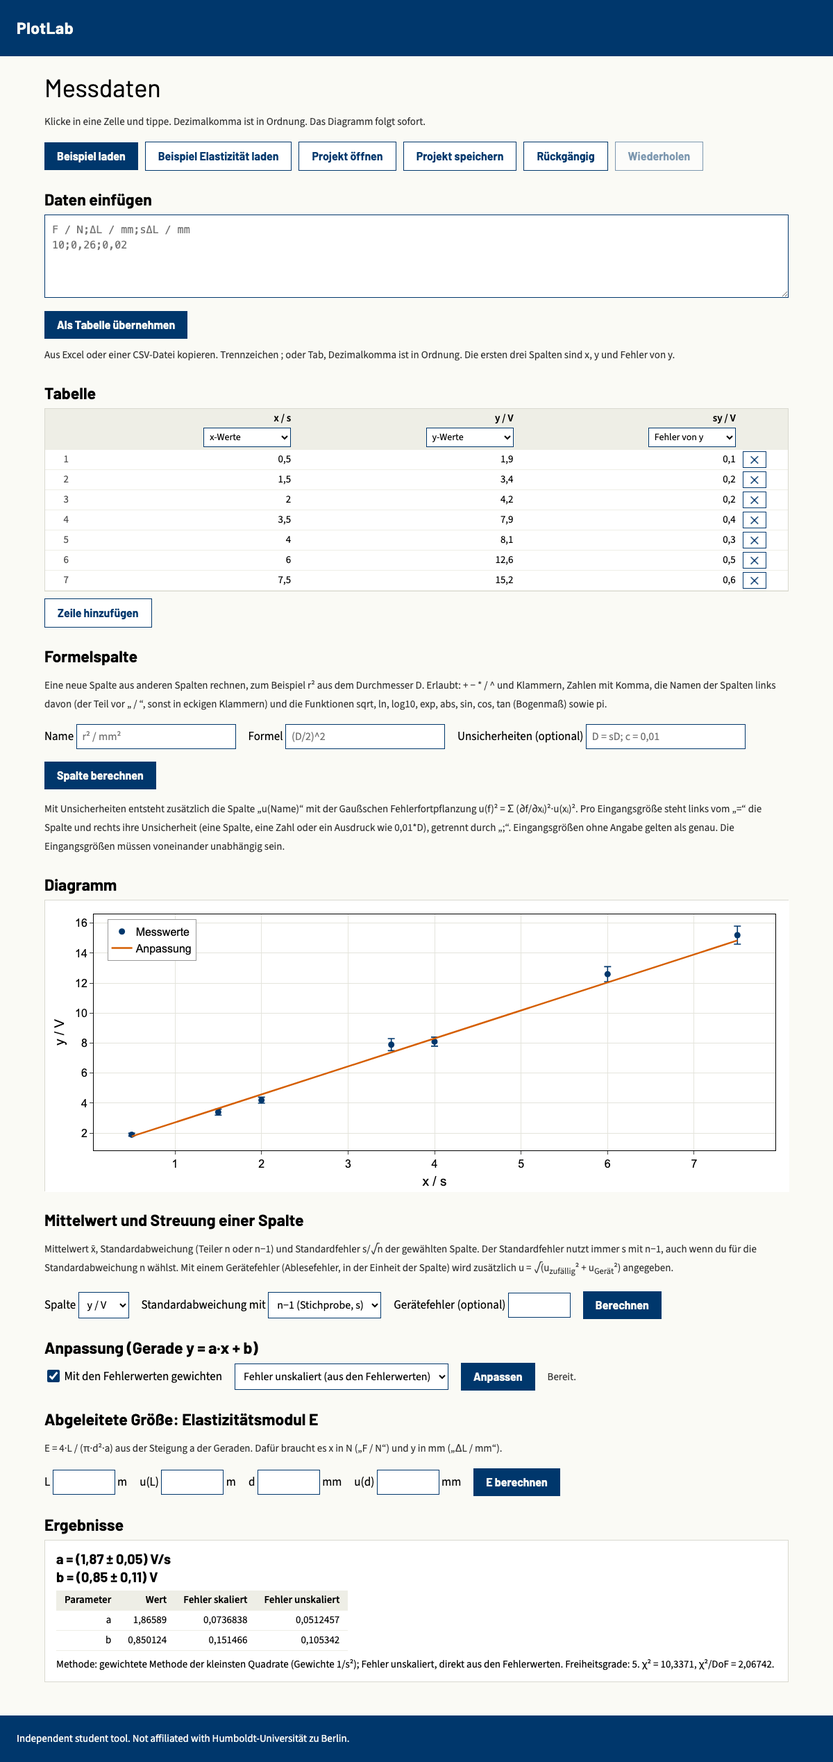
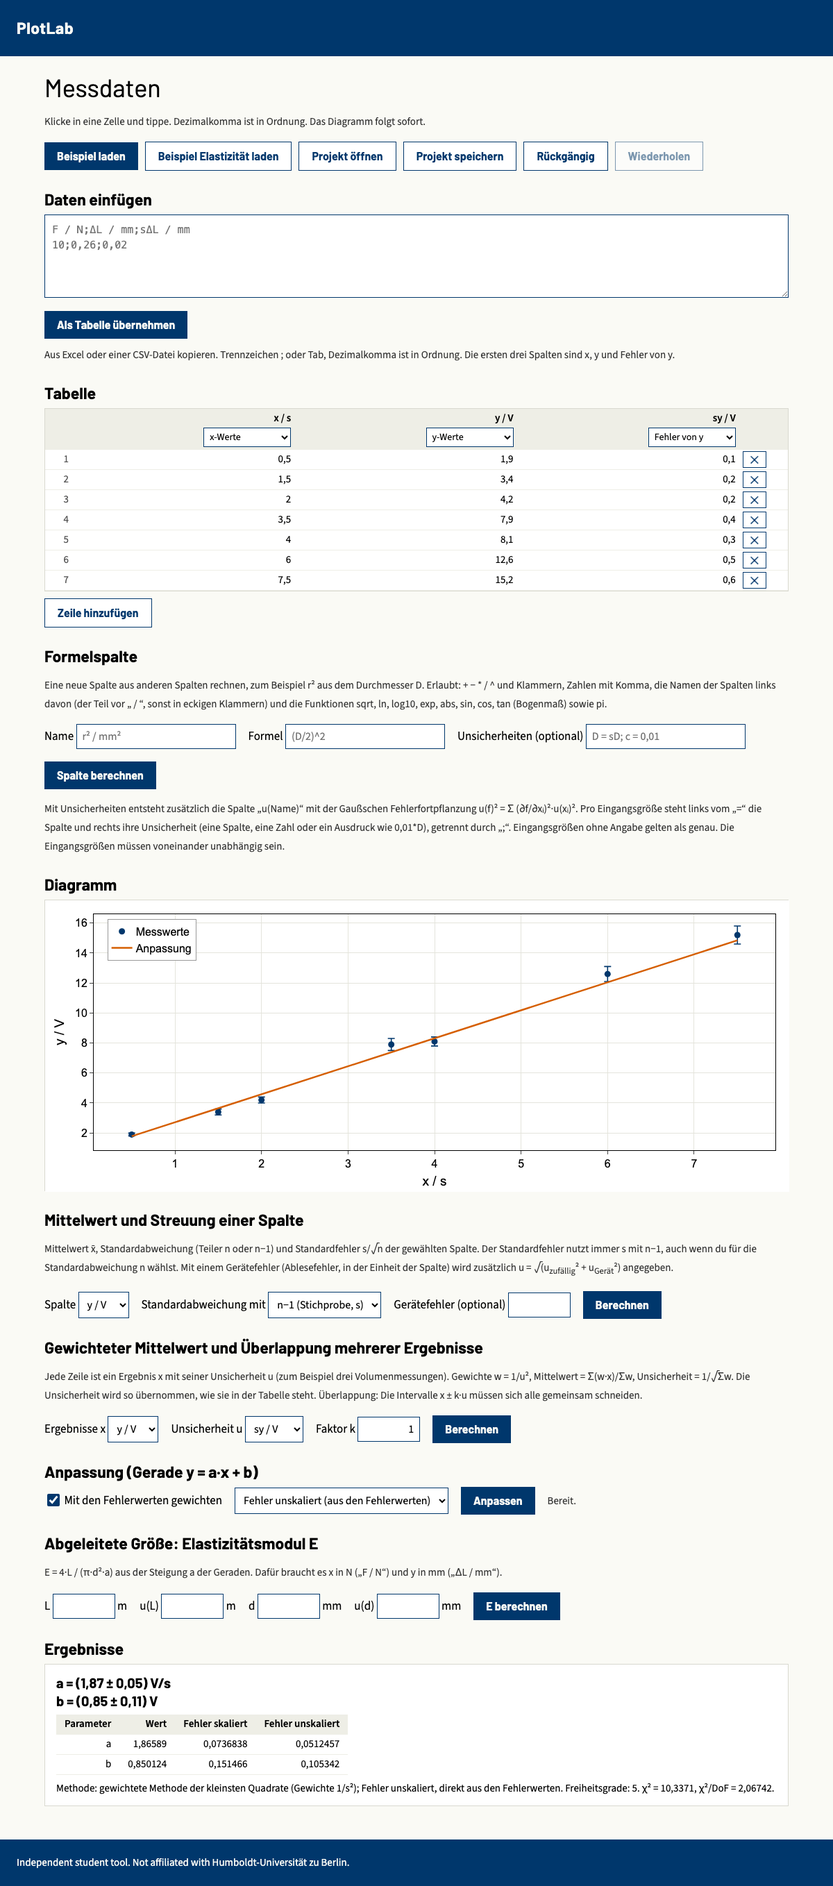
Phase 2 step 4: weighted mean with uncertainty and overlap check

diff --git a/app/index.html b/app/index.html
@@ -107,6 +107,15 @@
     <button class="btn" id="s_go" disabled>Berechnen</button>
   </div>
   <div id="statsmsg" class="msg" role="alert" hidden></div>
+  <h2>Gewichteter Mittelwert und Überlappung mehrerer Ergebnisse</h2>
+  <p class="hint">Jede Zeile ist ein Ergebnis x mit seiner Unsicherheit u (zum Beispiel drei Volumenmessungen). Gewichte w = 1/u², Mittelwert = Σ(w·x)/Σw, Unsicherheit = 1/√Σw. Die Unsicherheit wird so übernommen, wie sie in der Tabelle steht. Überlappung: Die Intervalle x ± k·u müssen sich alle gemeinsam schneiden.</p>
+  <div class="fitbar" id="wmean">
+    <label>Ergebnisse x <select id="w_val" aria-label="Spalte mit den Ergebnissen"></select></label>
+    <label>Unsicherheit u <select id="w_unc" aria-label="Spalte mit den Unsicherheiten"></select></label>
+    <label>Faktor k <input class="num" id="w_k" aria-label="Faktor k für die Überlappung" inputmode="decimal"></label>
+    <button class="btn" id="w_go" disabled>Berechnen</button>
+  </div>
+  <div id="wmsg" class="msg" role="alert" hidden></div>
   <h2>Anpassung (Gerade y = a·x + b)</h2>
   <div class="fitbar">
     <label id="wlabel"><input type="checkbox" id="weighted"> Mit den Fehlerwerten gewichten</label>
@@ -197,7 +206,7 @@ function restoreAutosave() {
 function setProject(p) {
   proj = p; undo = []; redo = []; editKey = null; updateHist();
   $("msg").hidden = true;
-  $("saveproj").disabled = $("addrow").disabled = $("f_add").disabled = $("s_go").disabled = false; if (worker?.ready && !pending) $("fit").disabled = false;
+  $("saveproj").disabled = $("addrow").disabled = $("f_add").disabled = $("s_go").disabled = $("w_go").disabled = false; if (worker?.ready && !pending) $("fit").disabled = false;
   render();
 }
 function showMsg(t) { $("msg").textContent = t; $("msg").hidden = false; }
@@ -254,6 +263,11 @@ function statsDetail(r) {
   return `<div class="detail" data-how>Spalte „${esc(i.col)}“, n = ${n} Werte. Standardabweichung mit Teiler ${i.ddof === 0 ? "n" : "n−1"}. Mittelwert ± Standardfehler s/√n (s mit n−1).` +
     (i.instr != null ? ` Mit Gerätefehler ${fmt.format(Number(i.instr))}: u = √(u<sub>zufällig</sub>² + u<sub>Gerät</sub>²).` : "") + "</div>";
 }
+function wmeanDetail(r) {
+  const i = r.inputs || {}, k = fmt.format(Number(i.k));
+  return `<div class="detail" data-how>Ergebnisse „${esc(i.val)}“ mit Unsicherheiten „${esc(i.unc)}“, n = ${fmt.format(Number(r.n))} Zeilen. Gewichte w = 1/u², Mittelwert Σ(w·x)/Σw, Unsicherheit 1/√Σw.</div>` +
+    `<div class="detail" data-verdict>Überlappung der Intervalle x ± ${k}·u: ${esc(r.verdict)}</div>`;
+}
 function renderResults() {
   if (!proj.results.length) { $("results").innerHTML = '<div class="empty">Noch keine Ergebnisse.</div>'; return; }
   $("results").innerHTML = proj.results.map(r => {
@@ -262,7 +276,7 @@ function renderResults() {
       const u = uOf(q), t = huRound(q.value, u);
       return `<div class="res">${esc(q.name)} = ${t ? `(${t[0]} ± ${t[1]})` : q.plain ? fmtPlain.format(q.value) : fmt.format(q.value)}${q.unit ? " " + esc(q.unit) : ""}</div>`;
     }).join("");
-    return `<div class="result${stale ? " stale" : ""}">${stale ? `<div class="msg stalemsg">Die Daten wurden geändert. Dieses Ergebnis ist veraltet. Bitte neu ${r.kind === "stats" ? "berechnen" : "anpassen"}.</div>` : ""}${lines}${r.kind === "fit" && r.dof ? fitDetail(r) : ""}${r.kind === "derived" ? derivedDetail(r) : ""}${r.kind === "stats" ? statsDetail(r) : ""}</div>`;
+    return `<div class="result${stale ? " stale" : ""}">${stale ? `<div class="msg stalemsg">Die Daten wurden geändert. Dieses Ergebnis ist veraltet. Bitte neu ${r.kind === "stats" || r.kind === "wmean" ? "berechnen" : "anpassen"}.</div>` : ""}${lines}${r.kind === "fit" && r.dof ? fitDetail(r) : ""}${r.kind === "derived" ? derivedDetail(r) : ""}${r.kind === "stats" ? statsDetail(r) : ""}${r.kind === "wmean" ? wmeanDetail(r) : ""}</div>`;
   }).join("");
 }
 // Weighting needs an error column; errors method only matters for a weighted fit.
@@ -272,10 +286,13 @@ function syncControls() {
   $("wlabel").classList.toggle("off", !has);
   $("wlabel").title = has ? "" : "Dafür braucht es eine Spalte mit der Rolle „Fehler von y“.";
   $("errm").value = proj.settings.errMethod || "scaled"; $("errm").disabled = !w;
-  $("fitmsg").hidden = true; $("derivemsg").hidden = true; $("statsmsg").hidden = true;
+  $("fitmsg").hidden = true; $("derivemsg").hidden = true; $("statsmsg").hidden = true; $("wmsg").hidden = true;
   const st = statsSettings(proj);
   $("s_col").replaceChildren(...proj.columns.map(c => Object.assign(document.createElement("option"), { value: c.name, textContent: c.name })));
   $("s_col").value = st.col; $("s_ddof").value = st.ddof; $("s_instr").value = st.instr == null ? "" : fmt.format(st.instr); $("s_instr").classList.remove("bad");
+  const wm = wmeanSettings(proj), opts = (none) => [...(none ? [Object.assign(document.createElement("option"), { value: "", textContent: "(keine)" })] : []), ...proj.columns.map(c => Object.assign(document.createElement("option"), { value: c.name, textContent: c.name }))];
+  $("w_val").replaceChildren(...opts(false)); $("w_unc").replaceChildren(...opts(true));
+  $("w_val").value = wm.val; $("w_unc").value = wm.unc ?? ""; $("w_k").value = fmt.format(wm.k); $("w_k").classList.remove("bad");
   for (const k of ["L", "uL", "d", "ud"]) { const v = (proj.settings.young || {})[k]; $("y_" + k).value = v == null ? "" : fmt.format(v); $("y_" + k).classList.remove("bad"); }
 }
 // Formula columns are recomputed from the data on every change; rows that cannot be calculated are named in the message.
@@ -457,6 +474,34 @@ $("s_go").onclick = () => {
     params: [p("Mittelwert x̄", d.mean, d.sem), p(st.ddof === 0 ? "Standardabweichung σ (Teiler n)" : "Standardabweichung s (Teiler n−1)", d.s), p("Standardfehler des Mittelwerts s/√n", d.sem),
       ...(d.uTotal === null ? [] : [p("Mittelwert x̄ mit Gerätefehler", d.mean, d.uTotal)])],
   }));
+};
+// Weighted mean: the three settings live in the project (undo works); typing k is one undo step.
+const setWmean = patch => setSetting("wmean", { ...wmeanSettings(proj), ...patch });
+$("w_val").onchange = e => setWmean({ val: e.target.value });
+$("w_unc").onchange = e => setWmean({ unc: e.target.value || null });
+$("w_k").addEventListener("input", e => {
+  const v = parseCell(e.target.value);
+  e.target.classList.toggle("bad", v === undefined || v === null || !(v > 0));
+  if (!(v > 0)) return;
+  if (editKey !== "wmean.k") { pushUndo(); editKey = "wmean.k"; }
+  proj.settings.wmean = { ...wmeanSettings(proj), k: v };
+  renderResults(); autosave();
+});
+$("w_k").addEventListener("focusout", () => { editKey = null; });
+function wmeanFailed(why) { $("wmsg").textContent = why; $("wmsg").hidden = false; }
+$("w_go").onclick = () => {
+  const st = wmeanSettings(proj), cv = proj.columns.find(c => c.name === st.val), cu = proj.columns.find(c => c.name === st.unc);
+  if ($("w_k").classList.contains("bad")) return wmeanFailed("Der Faktor k muss eine Zahl größer als 0 sein.");
+  if (!cu) return wmeanFailed("Bitte eine Spalte mit den Unsicherheiten wählen.");
+  if (cu === cv) return wmeanFailed("Ergebnisse und Unsicherheiten müssen verschiedene Spalten sein.");
+  const rows = cv.values.map((v, i) => i).filter(i => cv.values[i] !== null && cu.values[i] !== null);
+  const zero = rows.find(i => !(cu.values[i] > 0));
+  if (zero !== undefined) return wmeanFailed(`Alle Unsicherheiten müssen größer als 0 sein (Zeile ${zero + 1}). Das Gewicht 1/u² ist sonst nicht definiert.`);
+  if (rows.length < 2) return wmeanFailed(`Es gibt ${rows.length} Zeile${rows.length === 1 ? "" : "n"} mit Ergebnis und Unsicherheit. Ein gewichteter Mittelwert braucht mindestens zwei.`);
+  const unit = (cv.name.split("/")[1] || "").trim(), d = weightedMean(rows.map(i => cv.values[i]), rows.map(i => cu.values[i]), st.k), nr = j => rows[j - 1] + 1;
+  const verdict = d.overlap ? "Alle Intervalle haben einen gemeinsamen Bereich. Die Ergebnisse stimmen im Rahmen ihrer Unsicherheiten überein."
+    : "Die Ergebnisse stimmen nicht überein: " + d.bad.map(b => `Zeile ${nr(b.i)} und Zeile ${nr(b.j)} (Lücke ${fmtPlain.format(b.gap)}${unit ? " " + unit : ""})`).join("; ") + ". Der gewichtete Mittelwert ist dann mit Vorsicht zu lesen.";
+  change(() => addResult(proj, { kind: "wmean", inputs: st, n: d.n, verdict, params: [{ name: "Gewichteter Mittelwert", unit, value: d.mean, u: d.u }] }));
 };
 $("weighted").onchange = e => setSetting("weighted", e.target.checked);
 $("errm").onchange = e => setSetting("errMethod", e.target.value);

diff --git a/app/project.js b/app/project.js
@@ -23,14 +23,22 @@ function statsSettings(p) {
 }
 // The result depends on the current settings and on that column's values.
 const statsKey = p => { const st = statsSettings(p); return fnv(JSON.stringify([st, p.columns.find(c => c.name === st.col).values])); };
+// Weighted mean of results (value column, uncertainty column) with the overlap factor k: defaults are the y and y-error columns.
+function wmeanSettings(p) {
+  const st = p.settings.wmean || {}, has = n => p.columns.some(c => c.name === n);
+  const val = has(st.val) ? st.val : (p.columns.find(c => c.role === "y") || p.columns[0]).name;
+  const unc = has(st.unc) ? st.unc : st.unc === null ? null : (p.columns.find(c => c.role === "yerr") || {}).name ?? null; // null = "(keine)" chosen on purpose
+  return { val, unc, k: st.k > 0 ? st.k : 1 };
+}
+const wmeanKey = p => { const st = wmeanSettings(p), by = n => (p.columns.find(c => c.name === n) || {}).values; return fnv(JSON.stringify([st, by(st.val), by(st.unc)])); };
 
 function addResult(p, result) {
   p.results = p.results.filter(r => r.kind !== result.kind);
-  p.results.push({ ...result, settings: { ...p.settings }, computedFrom: result.kind === "stats" ? statsKey(p) : fingerprint(p) });
+  p.results.push({ ...result, settings: { ...p.settings }, computedFrom: result.kind === "stats" ? statsKey(p) : result.kind === "wmean" ? wmeanKey(p) : fingerprint(p) });
 }
 
 // Stale when the data changed, weighting was switched after the fit, or (derived results) the extra inputs changed.
-const isStale = (p, r) => r.kind === "stats" ? r.computedFrom !== statsKey(p) : r.computedFrom !== fingerprint(p) || (r.settings || {}).weighted !== p.settings.weighted ||
+const isStale = (p, r) => r.kind === "stats" ? r.computedFrom !== statsKey(p) : r.kind === "wmean" ? r.computedFrom !== wmeanKey(p) : r.computedFrom !== fingerprint(p) || (r.settings || {}).weighted !== p.settings.weighted ||
   (r.kind === "derived" && JSON.stringify((r.settings || {}).young) !== JSON.stringify(p.settings.young));
 
 const save = p => JSON.stringify(p, null, 1);
@@ -48,4 +56,4 @@ function open(text) {
   return ok ? { project: p } : { error: "Das Projekt ist beschädigt: Spalten oder Werte fehlen oder sind keine Zahlen." };
 }
 
-if (typeof module !== "undefined") module.exports = { statsSettings, ROLES, newProject, fingerprint, addResult, isStale, save, open };
+if (typeof module !== "undefined") module.exports = { statsSettings, wmeanSettings, ROLES, newProject, fingerprint, addResult, isStale, save, open };

diff --git a/app/stats.js b/app/stats.js
@@ -7,4 +7,15 @@ function describe(values, ddof, instr) {
   const ss = values.reduce((a, v) => a + (v - mean) ** 2, 0), sem = Math.sqrt(ss / (n - 1) / n);
   return { n, mean, s: Math.sqrt(ss / (n - ddof)), sem, uTotal: instr == null ? null : Math.sqrt(sem * sem + instr * instr) };
 }
-if (typeof module !== "undefined") module.exports = { describe };
+// Weighted mean of results x±u (P2): w = 1/u², mean = Σwx/Σw, u(mean) = 1/√Σw (the uncertainties are taken as given, not scaled by χ²/DoF).
+// Overlap: the intervals x±k·u all share a point (in one dimension that is the same as every pair overlapping).
+// Returns bad: pairs (1-based positions in the input) whose intervals do not touch, with the gap between them.
+function weightedMean(x, u, k) {
+  const w = u.map(q => 1 / (q * q)), sw = w.reduce((a, v) => a + v, 0), n = x.length, bad = [];
+  for (let i = 0; i < n; i++) for (let j = i + 1; j < n; j++) {
+    const gap = Math.abs(x[i] - x[j]) - k * (u[i] + u[j]);
+    if (gap > 0) bad.push({ i: i + 1, j: j + 1, gap });
+  }
+  return { n, mean: x.reduce((a, v, i) => a + w[i] * v, 0) / sw, u: 1 / Math.sqrt(sw), w, overlap: !bad.length, bad };
+}
+if (typeof module !== "undefined") module.exports = { describe, weightedMean };

diff --git a/tests/reference/weighted_mean.py b/tests/reference/weighted_mean.py
@@ -1,0 +1,9 @@
+# Independent hand calculation (exact fractions) for tests/phase2-step4-wmean.mjs. Run: python3 tests/reference/weighted_mean.py
+from fractions import Fraction as F
+x = [F("10.3"), F("10.5"), F("9.9")]; u = [F("0.2"), F("0.3"), F("0.1")]
+w = [1 / q**2 for q in u]; sw = sum(w)
+print("w", [float(a) for a in w], "sum", float(sw))                      # 25, 11.111, 100 -> 136.111
+print("mean", float(sum(a * b for a, b in zip(w, x)) / sw))              # 10.0224490
+print("u", 1 / float(sw) ** 0.5)                                         # 0.0857143 = 3/35
+for k in (1, 2):                                                         # gap > 0 means the two intervals do not touch
+    print("k", k, [(i + 1, j + 1, float(abs(x[i] - x[j]) - k * (u[i] + u[j]))) for i in range(3) for j in range(i + 1, 3)])

diff --git a/docs/progress.md b/docs/progress.md
@@ -10,7 +10,7 @@ Phase 1 is finished (see `docs/phase1-report.md`). Phase 2 **assumes P1 to P9** 
 - [x] 1. Formula columns, values only (P2, P5, P6): a new column defined by a formula over other columns (`+ - * / ^`, `sqrt`, `ln`, `log10`, `pi`, German column names, decimal comma). Recalculates when data changes, saved in the project, undo works. Test: r² and d·c columns from the P5 sheet against hand values; a formula with an unknown column name or a division by zero shows a clear message.
 - [x] 2. Error propagation for formula columns (P2, P5, P6): optional uncertainty column per formula result, Gaussian propagation from the uncertainties of the inputs (independent inputs). Test: product, quotient and square-root cases against hand-derived partial derivatives, including the Wheatstone bridge Rx = R1·R2/R3 case.
 - [x] 3. Mean, standard deviation (n or n−1, chosen by the student), standard error, and random plus instrument error combined in quadrature (P2 volume measurement, P1). Test: a 10-value sample against hand values for both choices of n; result lines in HU format.
-- [ ] 4. Weighted mean with uncertainty and an overlap check of several results (P2). Test: three volume results with different uncertainties against hand values (w = 1/u², mean, 1/√Σw); the overlap verdict (within k·u) matches the hand check.
+- [x] 4. Weighted mean with uncertainty and an overlap check of several results (P2). Test: three volume results with different uncertainties against hand values (w = 1/u², mean, 1/√Σw); the overlap verdict (within k·u) matches the hand check.
 - [ ] 5. Frequency table (absolute, relative, cumulative) and histogram with the fitted normal curve (P1). Test: 30 hand-made readings, bin counts and normal-curve height against hand values; axis labels carry quantity and unit.
 - [ ] 6. Cumulative probability plot with the 16 % and 84 % read-off (P1). Test: values read off the hand-made cumulative table; the plot marks both levels.
 - [ ] 7. General derived quantity from fit parameters (P3, P4, P5, P9): a formula over a, b, u(a), u(b) with propagation; the E of step 6 of Phase 1 becomes the first template of it. Test: the P3 numbers of `tests/phase1-step6-elasticity.mjs` are reproduced exactly (E = (201 ± 8) GPa), plus one new case (g from the slope of T² against l, P9) by hand.
@@ -78,3 +78,4 @@ Phase 1 is finished (see `docs/phase1-report.md`). Phase 2 **assumes P1 to P9** 
 - 2026-10-14, Phase 2 step 1: A student can now add a formula column under the table ("Formelspalte"): a name such as "r² / mm²" and a formula such as (D/2)^2 or d*c or sqrt([r²])+0,5. Allowed: + - * / ^ (also ², ·, ×, −, ÷), brackets, numbers with decimal comma or point, names of columns to the left (the part before " / ", or the full name in [brackets]), the functions sqrt, ln, log10, exp, abs, sin, cos, tan, and pi. The column recalculates when data changes (edit, add row, undo, redo), is saved in the project and in autosave, can get a role (for example y) and then drives the plot, and can be removed. The formula text is never run as code: it is read by a small parser (`app/formula.js`, no eval). Tested by hand-worked values: P5-style Newton's rings, r² = (D/2)² = 1; 2,25; 4; 6,25 and after editing D to 2,2 r² = 1,21; polarimetry d·c = 0,2; 0,4; 0,6; 0,8; precedence (2^3^2 = 512, -2^2 = -4, 8/4/2 = 1); 13 attempts to smuggle code ("alert(1)", "constructor", "process.exit()" and so on) all give a parse message. Bad input gives clear German messages: unknown column "foo" (lists the usable names, nothing is added), unknown function, missing bracket, empty name or formula, duplicate name, division by zero (the cell stays empty and the message names the row, for example "Spalte „q / mm“, Zeile 1: Division durch 0. Der Wert bleibt leer."), root or logarithm of a negative number. A hand-edited project file with wrong stored numbers is recomputed on opening, and names or formulas with <script> or <img onerror> are shown as text and never run. Tests: `tests/phase2-step1-formula.sh` (parser in Node, then the real page in Chromium); all 16 checks in `scripts/check.sh` pass. Screenshots `evidence/phase2-step1-formula.png` and `-error.png` judged OK (header shows the formula, calculated cells shaded, decimal commas, error in red box). Not yet: no uncertainty for formula columns (step 2); a formula cannot be edited in place (remove and add again); no column names with superscripts as short names (use [r²]).
 - 2026-10-14, Phase 2 step 2: A student can now give a formula column uncertainties ("Unsicherheiten", e.g. `R1 = sR1; R2 = sR2; R3 = sR3`) and gets a second column "u(Rx)" with Gaussian error propagation; inputs not listed count as exact, the right-hand side may be a column, a number or an expression like 0,01*D. The u column updates with the data, is saved, undone and restored like other columns, and can be the y error of the plot (error bars follow). Slopes of the formula are taken numerically (central differences on the parsed formula, no eval), good to about 1e-9 relative. Tested (`tests/phase2-step2-propagate.sh`) against hand-derived partial derivatives, never the app: Wheatstone Rx = 50, u = 0,4330127; Rx = 180, u = 1,5130834 (also confirmed in a separate Python run with exact fractions); product, quotient, sqrt (4 ± 0,2 gives 0,05), ln, 2^x, sum 3-4-5 (0,5), x·x with one input used twice (0,6, not 0,424), constant and relative uncertainty; in the real page with undo, reload, save/open, plot error bars and a hand-edited project with script text in the new fields (nothing ran). Bad input (unknown column, missing "=", input not in formula, twice, duplicate name, negative uncertainty, division by zero) gives clear German messages. All 17 checks in `scripts/check.sh` pass. Screenshots `evidence/phase2-step2-propagate.png`, `-error.png` judged OK. Limits: inputs assumed independent (stated on the page; a formula on top of another formula column that shares inputs is the student's responsibility); the formula and the uncertainty text cannot be edited in place; new code in `app/propagate.js`.
 - 2026-10-14, Phase 2 step 3: A student can now pick a column under "Mittelwert und Streuung einer Spalte", choose the divisor n or n−1 for the standard deviation, optionally enter an instrument (reading) error, press "Berechnen" and read: Mittelwert x̄ = (value ± standard error) unit in HU format, the standard deviation s or σ, the standard error s/√n, and with an instrument error a second mean line with random and instrument error added in quadrature. The standard error always uses s with n−1 (stated on the page). Settings are in the project (undo, autosave, save/open work); changing the column, divisor, instrument error or any value of that column greys the result out as out of date ("Bitte neu berechnen"). Tested (`tests/phase2-step3-stats.sh`) with ten burette readings against hand values (exact fractions): mean 10,11 mL, s(n−1) = 0,0258199, σ(n) = 0,0244949, standard error 0,00816497, with 0,02 mL instrument error 0,0216025; on screen (10,110 ± 0,008) mL and (10,110 ± 0,022) mL, s = 0,0258 or σ = 0,0245 mL. Bad input (a column with one value, negative or non-numeric instrument error) gives clear German messages and no result; a hand-edited project with script text in the stats fields runs nothing. All 18 checks in `scripts/check.sh` pass. Screenshots `evidence/phase2-step3-stats.png`, `-error.png` judged OK. New code: `app/stats.js` (pure math); `app/project.js` got `statsSettings` and a stale rule for statistics. Limits: one statistics result at a time; s and the standard error are shown as plain numbers with 3 significant digits (they have no uncertainty of their own).
+- 2026-10-14, Phase 2 step 4: A student can now pick a results column and an uncertainty column (default: the y and y-error columns), set the factor k (default 1) and press "Berechnen" under "Gewichteter Mittelwert und Überlappung mehrerer Ergebnisse". The page shows the weighted mean in HU format with weights 1/u² and u = 1/√Σw, and says whether the intervals x ± k·u share a common range or names the rows that do not overlap, with the gap. Rows with an empty cell are skipped. Settings are in the project (undo, autosave, save/open); changing a column, k or a value greys the result out. Tested (`tests/phase2-step4-wmean.sh`) with three volume results 10,3 ± 0,2; 10,5 ± 0,3; 9,9 ± 0,1 cm³ against a separate hand calculation in exact fractions (`tests/reference/weighted_mean.py`): Σw = 136,111, mean 10,022449, u = 0,0857143 (3/35); on screen (10,02 ± 0,09) cm³; k = 1: rows 1/3 (gap 0,1) and 2/3 (gap 0,2) do not overlap; k = 2: all overlap. Equal-uncertainty case gives the plain mean and u0/√n. Bad input (u = 0 with the row named, no uncertainty column, same column twice, k = 0 or text, one usable row) gives clear German messages and no result; a hand-edited project with script text in the new fields runs nothing. All 19 checks in `scripts/check.sh` pass. Screenshots `evidence/phase2-step4-wmean.png`, `-error.png` judged OK. Limits: the uncertainty 1/√Σw is not scaled by χ²/DoF (stated on the page); no separate χ² consistency number; one weighted-mean result at a time. New code: `weightedMean` in `app/stats.js`; `wmeanSettings` in `app/project.js`.

diff --git a/CHANGELOG.md b/CHANGELOG.md
@@ -2,6 +2,13 @@
 
 Written in plain language for people who do not read code. Newest entry on top.
 
+## 2026-10-14: Weighted mean and overlap check (P2)
+
+- **What a student can now do:** under "Gewichteter Mittelwert und Überlappung mehrerer Ergebnisse" pick the column with the results (for example three volume measurements) and the column with their uncertainties, set the factor k (default 1) and press "Berechnen". The page shows the weighted mean as (value ± u) unit in HU format, for example (10,02 ± 0,09) cm³, with weights 1/u² and u = 1/√Σw. It also says whether the intervals x ± k·u all share a common range ("stimmen im Rahmen ihrer Unsicherheiten überein") or names the rows that do not overlap and by how much.
+- **Good to know:** the uncertainties are used as they stand in the table (not scaled). Rows with an empty result or uncertainty are skipped. Changing a column, k or any value marks the result as out of date.
+- **Messages:** an uncertainty of 0 or less (names the row), no uncertainty column, the same column twice, a k that is not a positive number, or fewer than two usable rows gives a plain German message.
+- **Tested:** `tests/phase2-step4-wmean.sh` with three volume results (10,3 ± 0,2; 10,5 ± 0,3; 9,9 ± 0,1 cm³) against a separate hand calculation in exact fractions (mean 10,02245, u 0,0857143; k = 1 no overlap, k = 2 overlap), in the real page with undo, reload, save, reopen and a hand-edited project file.
+
 ## 2026-10-14: Mean, standard deviation and standard error (P1, P2)
 
 - **What a student can now do:** choose a column under "Mittelwert und Streuung einer Spalte", pick n or n−1 for the standard deviation, optionally enter an instrument (reading) error and press "Berechnen". The page shows the mean as (value ± standard error) unit, the standard deviation, the standard error s/√n, and with an instrument error a second mean line where random and instrument error are added in quadrature, for example (10,110 ± 0,022) mL.
